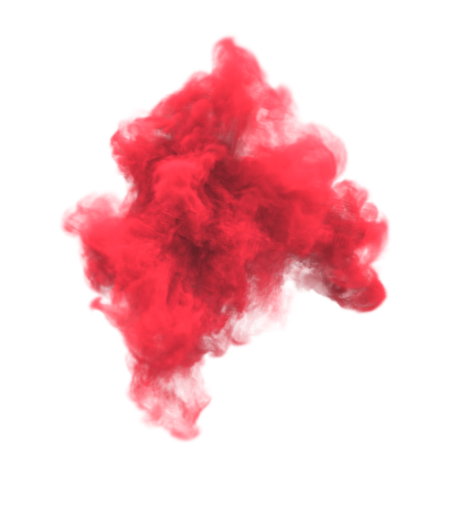
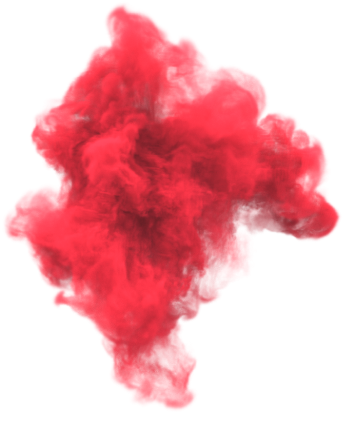
separating header-body, nav into separate components

diff --git a/src/components/header/header.scss b/src/components/header/header.scss
@@ -19,42 +19,4 @@
         display: flex;
         align-items: center;
     }
-    &__body{
-        display: flex;
-        align-items: center;
-    }
-    .language{margin-left: 66px;}
-}
-
-.nav{
-    &__wrapper{
-        display: flex;
-        align-items: center;
-        gap: 80px;
-
-        li{
-            position: relative;
-            padding-bottom: 7px;
-
-            &::after{
-                content: "";
-                position: absolute;
-                bottom: 0;
-                left: 50%;
-                transform: scale(0) translateX(-50%);
-                width: 25px;
-                height: 3px;
-                background: $color-orange_linear;
-                transition: .3s;
-                border-radius: 5px;
-            }
-
-            &:hover::after{transform: scale(1) translateX(-50%);}
-        }
-        a{
-            color: $color-text_white;
-            font-size: 17px;
-            font-weight: $fw_bold;
-        }
-    }
 }

diff --git a/src/components/header-body/nav/nav.scss b/src/components/header-body/nav/nav.scss
@@ -1,0 +1,32 @@
+.nav{
+    &__wrapper{
+        display: flex;
+        align-items: center;
+        gap: 80px;
+
+        li{
+            position: relative;
+            padding-bottom: 7px;
+
+            &::after{
+                content: "";
+                position: absolute;
+                bottom: 0;
+                left: 50%;
+                transform: scale(0) translateX(-50%);
+                width: 25px;
+                height: 3px;
+                background: $color-orange_linear;
+                transition: .3s;
+                border-radius: 5px;
+            }
+
+            &:hover::after{transform: scale(1) translateX(-50%);}
+        }
+        a{
+            color: $color-text_white;
+            font-size: 17px;
+            font-weight: $fw_bold;
+        }
+    }
+}

diff --git a/src/components/footer/footer.scss b/src/components/footer/footer.scss
@@ -24,11 +24,29 @@
         z-index: -1;
     }
 
+    &__img{
+        max-width: 530px;
+        position: relative;
+        bottom: -145px;
+        align-content: flex-end;
 
+        img{
+            width: 100%;
+        }
+        &-red-smoke{
+            position: absolute;
+            bottom: 35%;
+            left: 25%;
+            width: 350px;
+            height: 442px;
+        }
+    }
     &__body{
         width: 100%;
         display: flex;
-        align-items: center;
+        align-items: flex-end;
+        justify-content: space-between;
+        padding-bottom: 145px;
     }
     &__form-callback{
         flex: 0 1 644px;

diff --git a/src/assets/styles/styles.scss b/src/assets/styles/styles.scss
@@ -47,7 +47,10 @@ h5{font-size: 18px;}
 @import "../../components/title-decor/title-decor.scss";
 @import "../../components/title-decor/_between/title-decor_between.scss";
 @import "../../components/title-decor/_one-blue/title-decor_one-blue.scss";
+
 @import "../../components/header/header.scss";
+@import "../../components/header-body/header-body.scss";
+
 @import "../../components/hero/hero.scss";
 
 @import "../../components/footer/footer.scss";

diff --git a/src/components/header-body/header-body.scss b/src/components/header-body/header-body.scss
@@ -1,0 +1,6 @@
+.header-body{
+    display: flex;
+    align-items: center;
+    
+    .language{margin-left: 66px;}
+}
